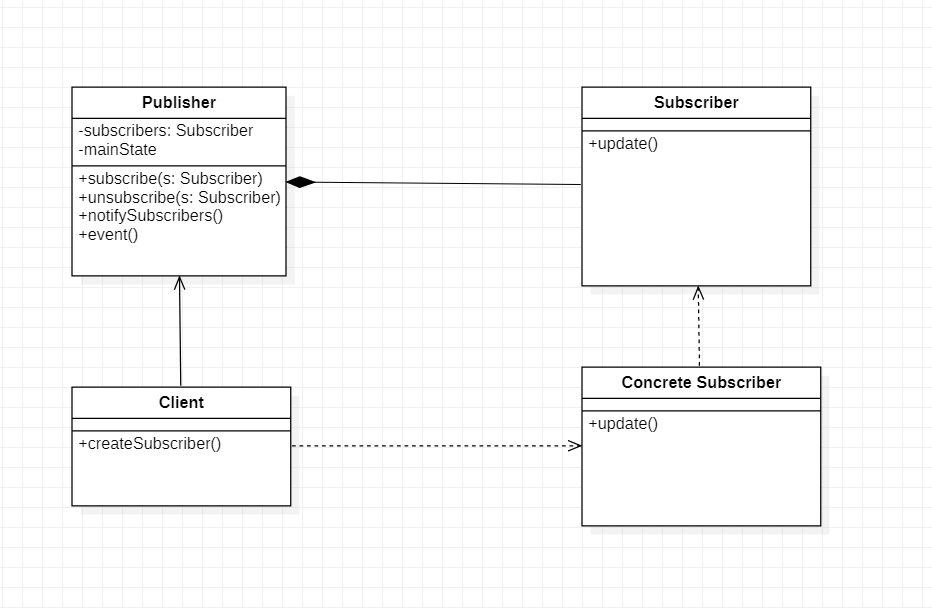
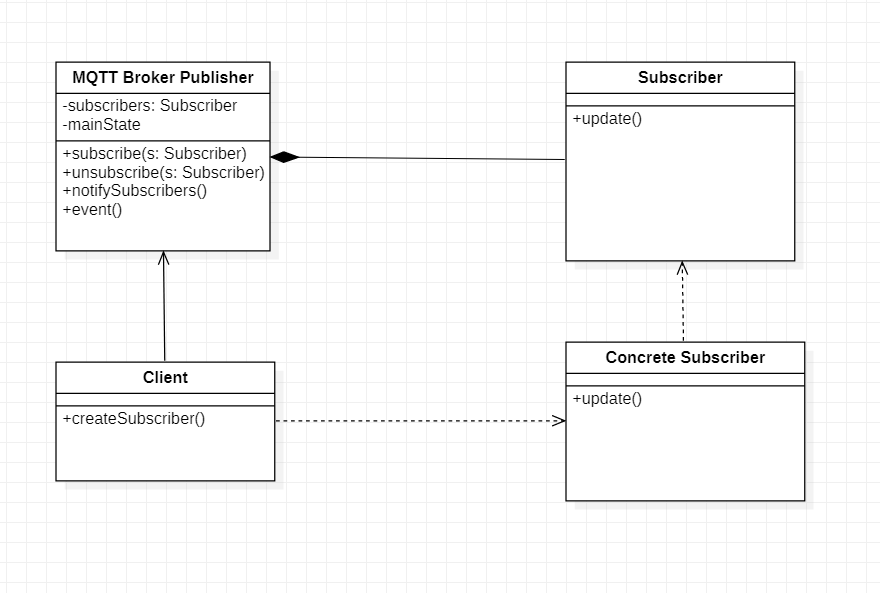
new file:   0001-visualizacion-de-eventos.md 	new file:   0002-MVC.png 	modified:   0004-envio-notificaciones.PNG 	modified:   0004-envio-notificaciones.md

Changed region(s): [[0.0614, 0.0911, 0.9205, 0.8499], [0.6136, 0.5464, 0.9205, 0.8803]]

diff --git a/0004-envio-notificaciones.md b/0004-envio-notificaciones.md
@@ -1,19 +1,61 @@
 # Contexto y planteamiento del problema
 
-Envío de notificaciones por mensajería interna a los operarios
+Envio de notificaciones a los operarios
 
 # Opciones consideradas
 
-Patrón Publisher - Subscriber
+Arquitectura MQTT Publish / Subscribe
+
+# Alternativas
+
+Arquitectura Apache Kafka Publish / Subscribe
+Amazon Kinesis
 
 # Resultado de la decisión
 
-El motivo de esta decisión es que permite que la aplicacion anuncie eventos de forma asíncrona, solo a los receptores interesados.
+Se ha tomado esta decisión porque la arquitectura MQTT Publish/subscribe permite una fácil integración con el resto de elementos de la aplicación, además de posible ampliación en el futuro y soporte para redes poco fiables con su uso de sesiones persistentes.
 
 # Requisitos
 
-RF.4 : Envio de notificaciones
+RF.4 : Envío de notificaciones por mensajería interna a los operarios
 
-# Pros y contras
+# Pros y Contras
 
-(Pro) Puedes introducir nuevos tipos de subscriptores sin tener que cambiar el notificador
+(Pro) Permite el almacenamiento y gestion de gran cantidad de datos
+(Pro) Buena escalabilidad
+(Pro) Soporte con redes poco fiables
+
+(Contr) Usa protocolo de red propio
+
+### Estilo arquitectónico Apache Kafka
+
+#### Ventajas
+
+    Permite el almacenamiento y gestion de gran cantidad de datos
+    Buena escalabilidad
+
+#### Desventajas
+
+    Usa protocolo de red propio
+
+### Estilo arquitectónico MQTT Publish / Subscribe
+
+#### Ventajas
+
+    Ligero
+    Disponibilidad de muchas librerias para distintas implementaciones
+
+#### Desventajas
+
+    Se especializa en la parte del transporte y no tanto en la aplicacion (como se gestiona la informacion, como se autorizan los usuarios)
+
+### Estilo arquitectónico Amazon Kinesis
+
+#### Ventajas
+
+    Facil de usar e implementar
+
+#### Desventajas
+
+    Muchas mas limitaciones que los demas
+    Poca escalabilidad

diff --git a/0001-visualizacion-de-eventos.md b/0001-visualizacion-de-eventos.md
@@ -1,0 +1,36 @@
+# Contexto y planteamiento del problema
+
+Un componente de visualización que muestre las analísticas en tiempo real del proceso productivo y las órdenes de trabajo.
+
+# Opciones consideradas
+
+Estilo arquitectónico modelo vista controlador (MVC)
+
+# Alternativas
+
+# Resultado de la decisión
+
+Se ha tomado esta decisión porque el software
+
+# Requisitos
+
+RF.1 : Visualización de estadisticas
+
+# Pros y Contras
+
+(Pro) Ayuda dividir forntend con backend
+
+### Estilo arquitectónico modelo vista controlador (MVC)
+
+#### Ventajas
+
+- La separación del Modelo y la Vista, lo cual logra separar los datos, de su representación visual.
+- Facilita el manejo de errores.
+- Permite que el sistema sea escalable si es requerido.
+- Es posible agregar múltiples representaciones de los datos.
+
+#### Desventajas
+
+- La cantidad de archivos que se deben mantener incrementa considerablemente.
+- La curva de aprendizaje es más alta que utilizando otros modelos.
+- Su separación en capas, aumenta la complejidad del sistema.
